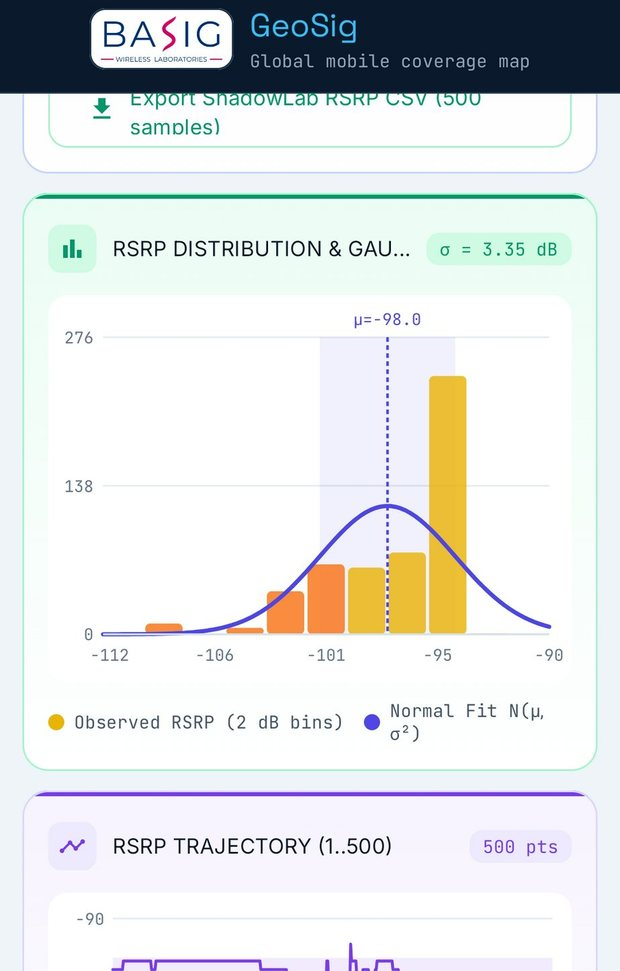
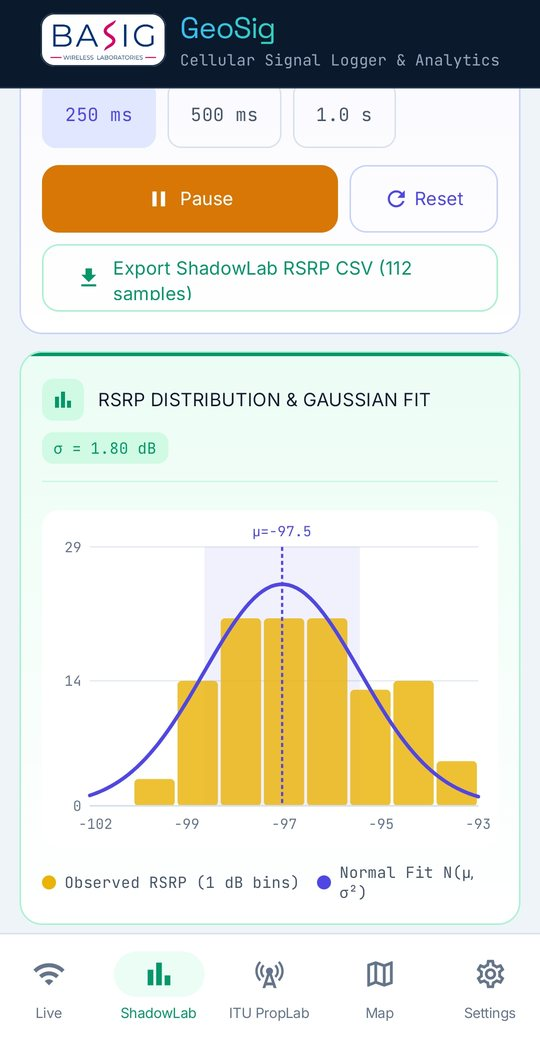
GeoSig: new title and screenshots; Publications: books first
- GeoSig page title: "GeoSig – Cellular Signal Logger and Analytics"
- Replace screenshots with the latest app build, grouped in tabs (Live,
  Neighbors & Handover, ShadowLab, ITU PropLab, Settings & Export) and
  add the web coverage map screenshot. Excluded/cropped: the tracking
  key, GPS coordinates and on-phone map (personal location data)
- Publications overview: book covers first, Books card and count first

Claude-Session: https://claude.ai/code/session_014LqBns1351rSsk3Yjn5b6o

Changed region(s): [[0.0, 0.0, 1.0, 1.0], [0.6815, 0.896, 0.7407, 0.9887], [0.0889, 0.4943, 0.1481, 0.5252]]

diff --git a/docs/stylesheets/modern.css b/docs/stylesheets/modern.css
@@ -1056,3 +1056,15 @@ body.bw-scrolled .md-header {
   .md-typeset .bw-steps { grid-template-columns: 1fr; }
   .md-typeset .bw-shots { grid-template-columns: 1fr; max-width: 20rem; }
 }
+.md-typeset img.bw-geo-web { display: block; width: 100%; height: auto; margin: 1rem 0 1.2rem; border-radius: var(--bw-radius-lg) !important; box-shadow: var(--bw-shadow-hover); }
+.md-typeset .tabbed-set { margin: 1rem 0 1.5rem; }
+.md-typeset .tabbed-labels > label { font-weight: 650; }
+.md-typeset .bw-shots img { max-height: 640px; object-fit: contain; }
+/* Compact book covers (Publications overview) */
+.md-typeset .bw-books--compact { grid-template-columns: repeat(4, 1fr); gap: 1rem; margin: .8rem 0 1.2rem; }
+.md-typeset .bw-books--compact > p { display: contents; }
+.md-typeset .bw-books--compact a.bw-book { display: flex; flex-direction: column; gap: .7rem; padding: 1rem; text-decoration: none; color: var(--md-default-fg-color); }
+.md-typeset .bw-books--compact .bw-book__body { display: flex; flex-direction: column; gap: .2rem; }
+.md-typeset .bw-books--compact .bw-book__body strong { font-size: .78rem; line-height: 1.35; color: var(--bw-heading); }
+.md-typeset .bw-books--compact .bw-book__body span { font-size: .68rem; color: var(--bw-text-soft); }
+@media (max-width: 720px) { .md-typeset .bw-books--compact { grid-template-columns: repeat(2, 1fr); } }

diff --git a/hooks/publications.py b/hooks/publications.py
@@ -47,9 +47,9 @@ def on_page_markdown(markdown, page, config, files):
             books = len(re.findall(r'class="bw-book"', fh.read()))
         first = min(p["key"][0] for p in j + c if p["key"][0])
         stats = ('<div class="bw-stats">'
+                 f'<div><b>{books}</b><span>Books</span></div>'
                  f'<div><b>{len(j)}</b><span>Journal articles</span></div>'
                  f'<div><b>{len(c)}</b><span>Conference papers</span></div>'
-                 f'<div><b>{books}</b><span>Books</span></div>'
                  f'<div><b>{first}</b><span>Publishing since</span></div></div>')
         latest = sorted(j + c, key=lambda p: p["key"], reverse=True)[:4]
         rows = ""

diff --git a/docs/geosig/index.md b/docs/geosig/index.md
@@ -1,8 +1,8 @@
 ---
-title: GeoSig
+title: GeoSig – Cellular Signal Logger and Analytics
 ---
 
-# GeoSig
+# GeoSig – Cellular Signal Logger and Analytics
 
 ![GeoSig – 5G & LTE RF Field Survey & Coverage Map](geosig-banner.jpg){ .bw-geo-banner }
 
@@ -51,24 +51,76 @@ title: GeoSig
 
 ## Screenshots
 
-<div class="bw-shots" markdown>
-<figure markdown>
-![ShadowLab RSRP distribution with Gaussian fit](shadowlab-distribution.jpg){ loading=lazy }
-<figcaption>ShadowLab: RSRP distribution and Gaussian fit</figcaption>
-</figure>
-<figure markdown>
-![ShadowLab shadow fading parameters](shadowlab-parameters.jpg){ loading=lazy }
-<figcaption>ShadowLab: shadow-fading parameters</figcaption>
-</figure>
-<figure markdown>
-![ITU PropLab estimated distance to cell](itu-proplab.jpg){ loading=lazy }
-<figcaption>ITU PropLab: estimated distance to the cell</figcaption>
-</figure>
-</div>
+=== "Live"
+
+    <div class="bw-shots" markdown>
+    <figure markdown>
+    ![Serving-cell signal quality and cell identity](live-signal.jpg){ loading=lazy }
+    <figcaption>Serving-cell signal quality and cell identity</figcaption>
+    </figure>
+    <figure markdown>
+    ![Cellular latency and jitter probe](live-latency.jpg){ loading=lazy }
+    <figcaption>Cellular latency and jitter probe</figcaption>
+    </figure>
+    </div>
+
+=== "Neighbors & Handover"
+
+    <div class="bw-shots" markdown>
+    <figure markdown>
+    ![Handover health and serving vs. neighbor cells](neighbors-handover.jpg){ loading=lazy }
+    <figcaption>Handover health and serving vs. neighbor cells</figcaption>
+    </figure>
+    </div>
+
+=== "ShadowLab"
+
+    <div class="bw-shots" markdown>
+    <figure markdown>
+    ![500-sample shadow-fading capture](shadowlab-capture.jpg){ loading=lazy }
+    <figcaption>500-sample shadow-fading capture</figcaption>
+    </figure>
+    <figure markdown>
+    ![RSRP distribution with Gaussian fit](shadowlab-distribution.jpg){ loading=lazy }
+    <figcaption>RSRP distribution with Gaussian fit</figcaption>
+    </figure>
+    <figure markdown>
+    ![Shadow-fading parameters and insight](shadowlab-insight.jpg){ loading=lazy }
+    <figcaption>Shadow-fading parameters and insight</figcaption>
+    </figure>
+    </div>
+
+=== "ITU PropLab"
+
+    <div class="bw-shots" markdown>
+    <figure markdown>
+    ![ITU-R M.2135 scenario and estimated distance](itu-scenarios.jpg){ loading=lazy }
+    <figcaption>ITU-R M.2135 scenario and estimated distance</figcaption>
+    </figure>
+    <figure markdown>
+    ![Path loss vs. distance curves](itu-pathloss.jpg){ loading=lazy }
+    <figcaption>Path loss vs. distance curves</figcaption>
+    </figure>
+    <figure markdown>
+    ![All ITU scenarios compared](itu-comparison.jpg){ loading=lazy }
+    <figcaption>All ITU scenarios compared</figcaption>
+    </figure>
+    </div>
+
+=== "Settings & Export"
+
+    <div class="bw-shots" markdown>
+    <figure markdown>
+    ![CSV export and About GeoSig](settings-export.jpg){ loading=lazy }
+    <figcaption>CSV export and About GeoSig</figcaption>
+    </figure>
+    </div>
 
 ## Live Coverage Map (Web)
 
 Open [geosig.basigwireless.com](https://geosig.basigwireless.com){ target="_blank" rel="noopener" } in any browser to see all synced readings.
+
+![GeoSig live coverage map showing survey routes across South India](web-map.jpg){ .bw-geo-web loading=lazy }
 
 <div class="bw-related" markdown>
 

diff --git a/docs/publications/index.md b/docs/publications/index.md
@@ -2,15 +2,29 @@
 
 Our work is published in IEEE journals and international conferences, alongside books on hands-on wireless systems and a patent.
 
+## Books
+
+<div class="bw-books bw-books--compact" markdown>
+
+<a class="bw-book" href="../press/deep-radio-hands-on/"><img src="covers/deep-radio.jpg" alt="Deep Radio: Hands-On Wireless AI"><span class="bw-book__body"><strong>Deep Radio: Hands‑On Wireless AI</strong><span>2026</span></span></a>
+
+<a class="bw-book" href="../press/yesdr-hands-on/"><img src="covers/yesdr.jpg" alt="YESDR: Your Extensible Software Defined Radio"><span class="bw-book__body"><strong>YESDR: Your Extensible Software Defined Radio</strong><span>2026</span></span></a>
+
+<a class="bw-book" href="../press/5g-nr-hands-on/"><img src="covers/5g-nr-hands-on.jpg" alt="5G NR Hands-On"><span class="bw-book__body"><strong>5G NR Hands‑On</strong><span>2025</span></span></a>
+
+<a class="bw-book" href="../press/lte-hands-on/"><img src="covers/lte-hands-on.jpg" alt="LTE Hands-On"><span class="bw-book__body"><strong>LTE Hands‑On</strong><span>2024</span></span></a>
+
+</div>
+
 <!-- pubs:stats -->
 
 <div class="bw-grid bw-grid--talks" markdown>
 
+<a class="bw-card" href="books-publications/"><span class="bw-card__icon">:material-book-open-page-variant:</span><strong>Books</strong><span class="bw-card__desc"><!-- pubs:count:books --> hands-on books from Chandhar Research Press.</span><span class="bw-card__more">View all :material-arrow-right:</span></a>
+
 <a class="bw-card" href="journal-publications/"><span class="bw-card__icon">:material-file-document-multiple:</span><strong>Journal Publications</strong><span class="bw-card__desc"><!-- pubs:count:journal --> articles in IEEE and international journals.</span><span class="bw-card__more">View all :material-arrow-right:</span></a>
 
 <a class="bw-card" href="conference-publications/"><span class="bw-card__icon">:material-presentation:</span><strong>Conference Publications</strong><span class="bw-card__desc"><!-- pubs:count:conference --> papers at IEEE and international conferences.</span><span class="bw-card__more">View all :material-arrow-right:</span></a>
-
-<a class="bw-card" href="books-publications/"><span class="bw-card__icon">:material-book-open-page-variant:</span><strong>Books</strong><span class="bw-card__desc"><!-- pubs:count:books --> hands-on books from Chandhar Research Press.</span><span class="bw-card__more">View all :material-arrow-right:</span></a>
 
 <a class="bw-card" href="patents-and-more/"><span class="bw-card__icon">:material-certificate:</span><strong>Patents & More</strong><span class="bw-card__desc">A patent, master's thesis supervision and blog posts.</span><span class="bw-card__more">View all :material-arrow-right:</span></a>
 
